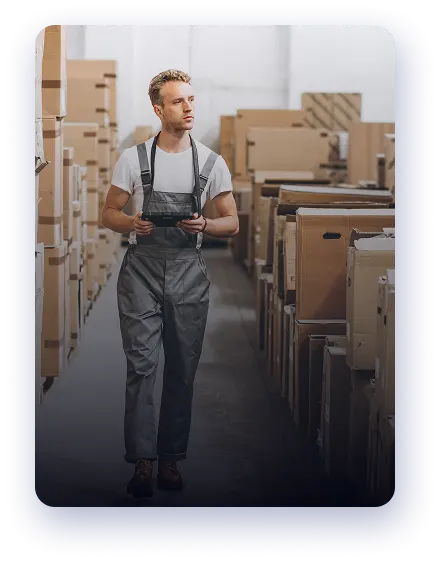
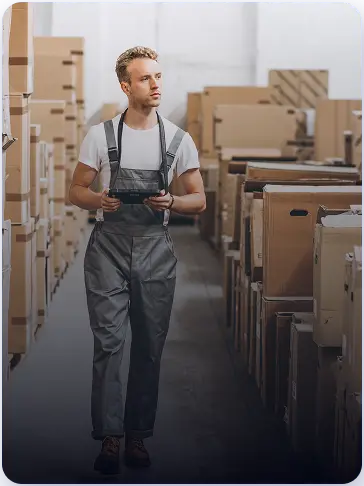
fix images

diff --git a/webpages/cargo-company/src/assets/scss/main.scss b/webpages/cargo-company/src/assets/scss/main.scss
@@ -813,16 +813,31 @@ label .choose-placeholder:hover {
 }
 
 .services-list {
+    max-width: 1140px;
     display: flex;
+    justify-content: center;
+    gap: 30px;
+    box-sizing: border-box;
 }
 
 .services-list__item {
     position: relative;
+    display: flex;
+    flex-direction: column;
+}
+
+.services-list__item-bgwrapper {
+
+}
+
+.services-list__item-bg {
+    
 }
 
 .services-list-body {
     position: absolute;
-    bottom: 50px;
+    bottom: 33px;
+    left: 35px;
     z-index: 100;
 }
 
@@ -838,9 +853,11 @@ label .choose-placeholder:hover {
     font-size: 15px;
     font-family: Proxima Nova, sans-serif;
     color: $default-white;
+    margin: 13px 0 14px 0;
 }
 
 .services-list__item-button {
+    display: inline-flex;
     font-size: 15px;
     font-family: Proxima Nova, sans-serif;
     text-decoration: none;
@@ -850,7 +867,3 @@ label .choose-placeholder:hover {
     border: 1px solid #e58d35;
     border-radius: 90px;
 }
-
-
-
-

diff --git a/webpages/cargo-company/src/Services/Services.jsx b/webpages/cargo-company/src/Services/Services.jsx
@@ -8,7 +8,9 @@ function Services () {
             <div className="services-list">
             {data.map(item => (
               <div key={item.title} className="services-list__item">
-                <img src={item.img} alt="" />
+                <span className="services-list__item-bgwrapper">
+                  <img src={item.img} alt="" className="services-list__item-bg" />
+                </span>
                 <div className="services-list-body">
                   <div className="services-list__item-title">{item.title}</div>
                   <div className="services-list__item-description">{item.description}</div>
